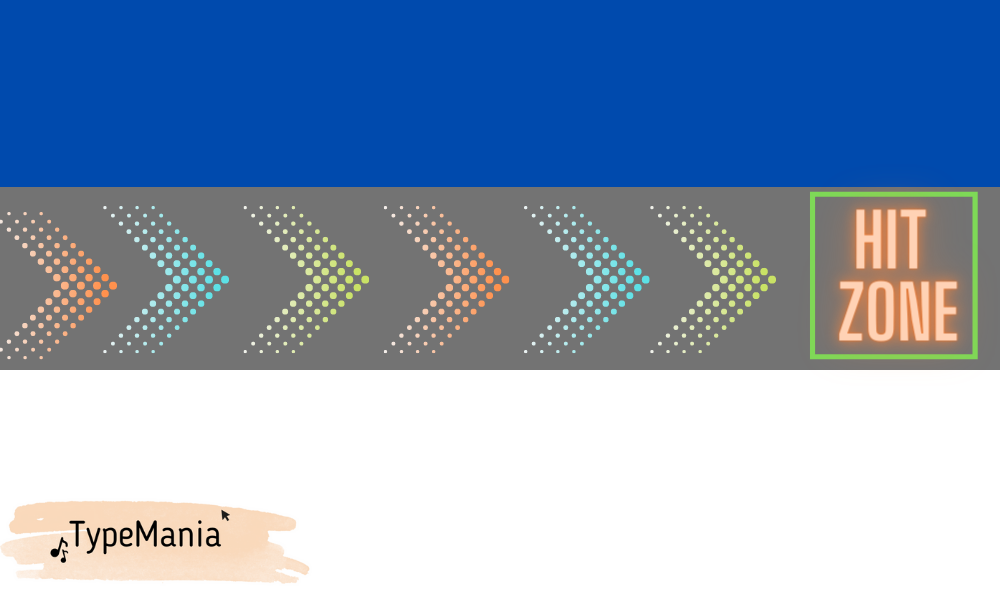
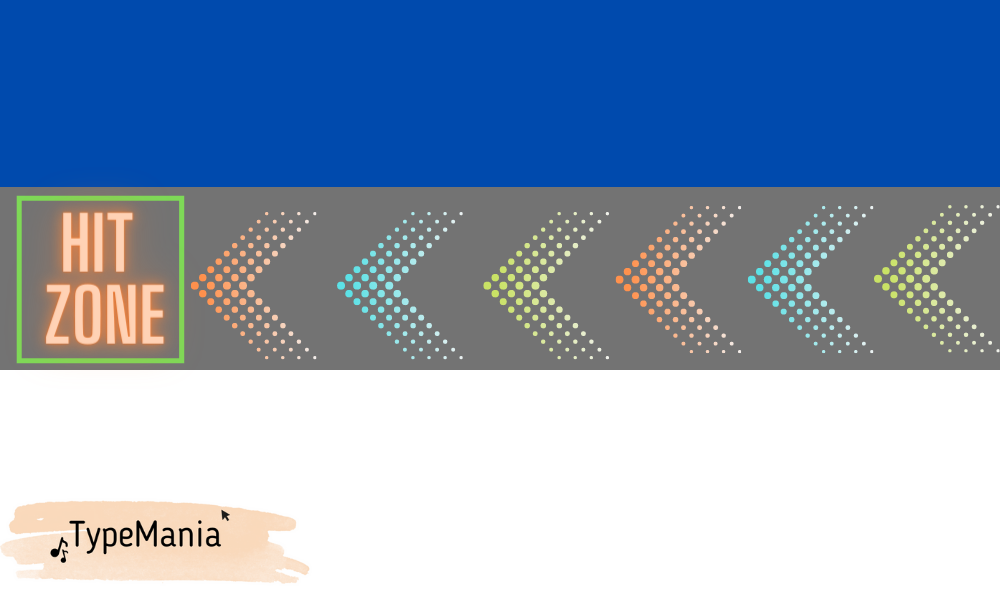
Footer and color scheme

Changed region(s): [[0.0, 0.3, 0.992, 0.63]]

diff --git a/frontend/src/components/Game.js b/frontend/src/components/Game.js
@@ -17,11 +17,10 @@ export default class Game extends Component {
       parent: 'game-container',
       width: WIDTH,
       height: HEIGHT,
-      backgroundColor: "#7393B3",
       scene: {
           preload: preload,
           create: create,
-          update: update
+          update: update,
       }
     };
 
@@ -35,19 +34,22 @@ export default class Game extends Component {
     let hitzone_animations;
     let scrolltrack;
 
-    function preload (){
+  
+    function preload(){
+      
     }
     
     function create () {
+      
       //keyboard input
       cursors = this.input.keyboard.createCursorKeys();
       
       //grid
-      this.add.grid(800, 500, 2000, 450, 64, 64, 0x00b9f2).setAltFillStyle(0x016fce).setOutlineStyle();
+      this.add.grid(800, 500, 2000,1000, 30, 30, 0x9966ff).setAltFillStyle(0x270a3d).setOutlineStyle();
 
       //scroll track
-      scrolltrack = this.add.rectangle(0,HEIGHT/3,WIDTH*2,HEIGHT/4, 0x333333)
-      scrolltrack.setStrokeStyle(4, 0x000000);
+      scrolltrack = this.add.rectangle(0,HEIGHT/3,WIDTH*3,HEIGHT/3, 0x00b9f2)
+      scrolltrack.setStrokeStyle(4, 0x00b9f2);
 
       //arrows
       for (let i=WIDTH/3; i<WIDTH; i+=WIDTH/4) {
@@ -59,9 +61,9 @@ export default class Game extends Component {
       //hitzone
       
       hitzone_animations = () => {
-        hitzone_outer = this.add.rectangle(WIDTH/8,HEIGHT/3,100,100, 0xf54242);
-        hitzone_outer.setStrokeStyle(4, 0x42adf5);
-        hitzone_inner = this.add.rectangle(WIDTH/8,HEIGHT/3,60,60, 0xffbdf4).setStrokeStyle(3, 0x000000);
+        hitzone_outer = this.add.rectangle(WIDTH/8,HEIGHT/3,100,100, 0x270a3d);
+        hitzone_outer.setStrokeStyle(7, 0xefc53f);
+        hitzone_inner = this.add.rectangle(WIDTH/8,HEIGHT/3,60,60, 0x9966ff).setStrokeStyle(5, 0x00b9f2);
         this.tweens.add({
           targets: hitzone_outer,
           scale: 0.9,

diff --git a/frontend/src/index.css b/frontend/src/index.css
@@ -244,7 +244,7 @@ form .form-inner .form-group input:focus {
   
 }
 
-.foot {
+.footer {
   border-top: solid 5px black;
   margin-top: 5px;
   position: fixed;
@@ -252,12 +252,10 @@ form .form-inner .form-group input:focus {
   bottom: 0;
   height: 5em;
   width: 100%;
+  text-align: right;
+  background-color:blue;
 }
 
-.foot h3 {
-  margin-top: 20px;
-  display: inline;
-}
 
 /* MEDIA QUERIES (RESPONSIVE) */
 @media only screen and (max-width: 1575px) {
@@ -266,6 +264,16 @@ form .form-inner .form-group input:focus {
   .leaderboardIMG {
     height: 20em;
   }
+
+  /*Typemania logo item */
+  .FooterImage{
+    margin-top: 5px;
+    position: absolute;
+    left: 1px;
+    height: 25%;
+    width: 100%
+  }
+
 
   .item-wrapper {
     width: 130px;
@@ -285,24 +293,6 @@ form .form-inner .form-group input:focus {
   .item__name,
   .item__score {
     margin-left: 0px;
-  }
-}
-
-@media only screen and (max-width: 1400px) {
-
-   /* leaderboard banner item */
-   .leaderboardIMG {
-    display: none;
-  }
-
-  .item-wrapper {
-    display: none;
-  }
-}
-
-@media only screen and (max-height: 900px) {
-  .foot, .WelcomeIMG {
-    display: none;
   }
 }
 

diff --git a/frontend/src/components/Footer.js b/frontend/src/components/Footer.js
@@ -1,6 +1,5 @@
 //file imports
-import WelcomeIMG from '../assets/WelcomeIMG.PNG'
-
+import FooterImage from '../assets/FooterImage.png'
 
 
 
@@ -8,8 +7,9 @@ import WelcomeIMG from '../assets/WelcomeIMG.PNG'
 const Footer = () => {
     return (  
         <div className="foot">
-            <h3>Footer Placeholder</h3>
-           <img src={WelcomeIMG} alt="Welcome_Image" className='WelcomeIMG'/> 
+            <a href="https://github.com/TypeMania/TypeMania.github.io">
+           <img src={FooterImage} alt="FooterImage" className='FooterImage'/>
+           </a>
            
         </div>   
     );

diff --git a/frontend/src/App.css b/frontend/src/App.css
@@ -23,7 +23,6 @@
   font-size: calc(10px + 2vmin);
   color: white;
 }
-
 .App-link {
   color: #61dafb;
 }
@@ -36,3 +35,5 @@
     transform: rotate(360deg);
   }
 }
+
+
